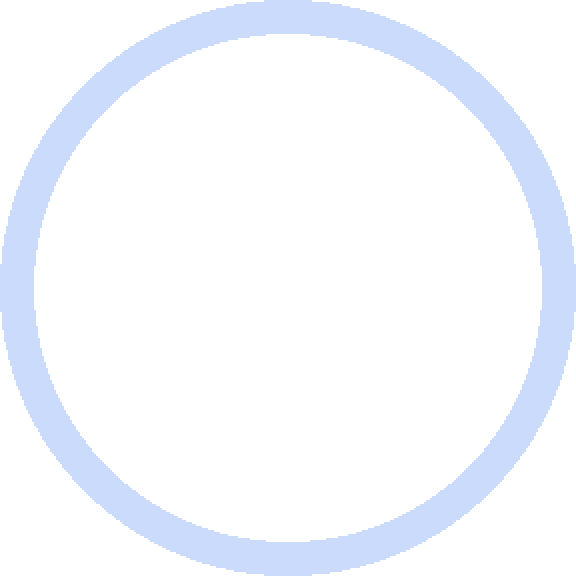
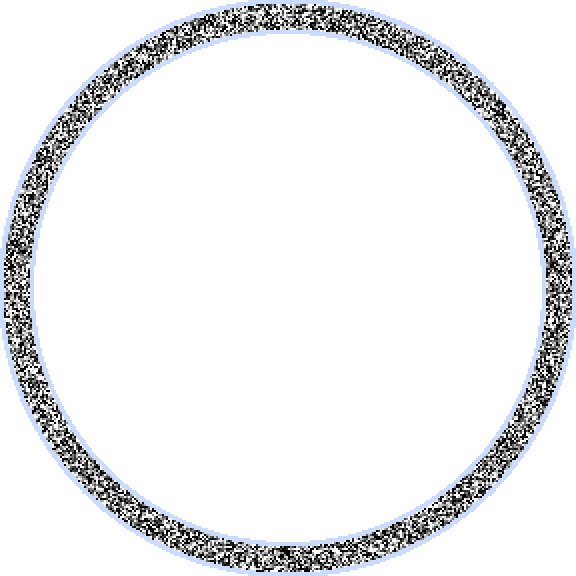
Purity Tweaks

Changed region(s): [[0.0, 0.0, 1.0, 1.0]]

diff --git a/Projectiles/Ability/Purifier.cs b/Projectiles/Ability/Purifier.cs
@@ -34,7 +34,11 @@ namespace StarlightRiver.Projectiles.Ability
 
         public override void AI()
         {
-            if (projectile.timeLeft >= 500)
+            if(projectile.timeLeft == 550)
+            {
+                Filters.Scene.Activate("PurityFilter", projectile.position).GetShader();
+            }
+            else if (projectile.timeLeft >= 500)
             {
                 projectile.ai[0] += 5;
             }
@@ -42,19 +46,14 @@ namespace StarlightRiver.Projectiles.Ability
             {
                 projectile.ai[0]--;
             }
-<<<<<<< Updated upstream
-            Filters.Scene["AuraFilter"].GetShader().UseProgress(projectile.ai[0] / 6000).UseIntensity(-0.02f * (projectile.ai[0] * 0.01f + 0.5f))
-          .UseOpacity(projectile.ai[0] * 0.01f * 0.5f)
-          .UseColor(new Vector3(0.4f, 0.4f, 0.4f) * (projectile.ai[0] * 0.01f * 0.5f)); //to update the shader //1.3
 
-=======
             Filters.Scene["PurityFilter"].GetShader().UseProgress((projectile.ai[0] / 255) * 0.191f).UseIntensity((projectile.ai[0] / 255) * 0.015f);
 
             Main.NewText(projectile.ai[0]);
->>>>>>> Stashed changes
+
             for (int x = 0; x < 30; x++)
             {
-                Dust.NewDustPerfect(projectile.Center + (Vector2.One * (projectile.ai[0] * 0.72f)).RotatedByRandom(6.28f) - Vector2.One * 16, ModContent.DustType<Dusts.Purify>());
+                Dust.NewDustPerfect(projectile.Center + (Vector2.One * ((projectile.ai[0]) * 0.82f)).RotatedByRandom(6.28f) - Vector2.One * 16, ModContent.DustType<Dusts.Purify>());
             }
             Dust.NewDust(projectile.Center - Vector2.One * 32, 32, 32, ModContent.DustType<Dusts.Purify>());
 
@@ -62,8 +61,8 @@ namespace StarlightRiver.Projectiles.Ability
             {
                 for (int y = -20; y < 20; y++)
                 {
-                    Vector2 check = (projectile.Center / 16) + new Vector2(x, y);
-                    if (Vector2.Distance((check * 16) + Vector2.One * 8, projectile.Center) <= projectile.ai[0] - 8)
+                    Vector2 check = (projectile.position / 16) + new Vector2(x, y);
+                    if (Vector2.Distance((check * 16), projectile.position) <= projectile.ai[0] - 2)
                     {
                         TransformTile((int)check.X, (int)check.Y);
                     }
@@ -82,15 +81,11 @@ namespace StarlightRiver.Projectiles.Ability
                 }
                 Projectile.NewProjectile(projectile.Center - Vector2.One * 16, Vector2.Normalize((projectile.Center - Vector2.One * 16) - Main.player[projectile.owner].Center).RotatedBy(0.3f) * 6,
                     ModContent.ProjectileType<PurifierReturn>(), 0, 0, projectile.owner);
-<<<<<<< Updated upstream
 
-                if (Filters.Scene["AuraFilter"].IsActive())
-=======
             }
             else if (projectile.timeLeft == 60)
             {
                 if (Filters.Scene["PurityFilter"].IsActive())
->>>>>>> Stashed changes
                 {
                     Filters.Scene.Deactivate("PurityFilter");
                 }
@@ -101,15 +96,15 @@ namespace StarlightRiver.Projectiles.Ability
         {
             Tile target = Main.tile[x, y];
             {
-                if (target.type == TileID.Stone || target.type == TileID.Ebonstone || target.type == TileID.Crimstone || target.type == TileID.Pearlstone) { target.type = (ushort)ModContent.TileType<StonePure>(); }
-                if (target.type == TileID.Grass || target.type == TileID.CorruptGrass || target.type == TileID.FleshGrass || target.type == TileID.HallowedGrass) { target.type = (ushort)ModContent.TileType<GrassPure>(); }
-                if (target.type == TileID.Sand || target.type == TileID.Ebonsand || target.type == TileID.Crimsand || target.type == TileID.Pearlsand) { target.type = (ushort)ModContent.TileType<SandPure>(); }
-                if (target.type == (ushort)mod.TileType("OreEbony")) { target.type = (ushort)mod.TileType("OreIvory"); }
-                if (target.type == (ushort)mod.TileType("VoidDoorOn")) { target.type = (ushort)mod.TileType("VoidDoorOff"); }
+                if (target.type == TileID.Stone || target.type == TileID.Ebonstone || target.type == TileID.Crimstone || target.type == TileID.Pearlstone) { target.type = (ushort)ModContent.TileType<StonePure>(); SpawnDust(x, y); }
+                if (target.type == TileID.Grass || target.type == TileID.CorruptGrass || target.type == TileID.FleshGrass || target.type == TileID.HallowedGrass) { target.type = (ushort)ModContent.TileType<GrassPure>(); SpawnDust(x, y); }
+                if (target.type == TileID.Sand || target.type == TileID.Ebonsand || target.type == TileID.Crimsand || target.type == TileID.Pearlsand) { target.type = (ushort)ModContent.TileType<SandPure>(); SpawnDust(x, y); }
+                if (target.type == (ushort)mod.TileType("OreEbony")) { target.type = (ushort)mod.TileType("OreIvory"); SpawnDust(x, y); }
+                if (target.type == (ushort)mod.TileType("VoidDoorOn")) { target.type = (ushort)mod.TileType("VoidDoorOff"); }//No Dust.
 
                 //walls
-                if (target.wall == WallID.Stone || target.wall == WallID.EbonstoneUnsafe || target.wall == WallID.CrimstoneUnsafe || target.wall == WallID.PearlstoneBrickUnsafe) target.wall = (ushort)ModContent.WallType<WallStonePure>();
-                if (target.wall == WallID.GrassUnsafe || target.wall == WallID.CorruptGrassUnsafe || target.wall == WallID.CrimsonGrassUnsafe || target.wall == WallID.HallowedGrassUnsafe) target.wall = (ushort)ModContent.WallType<WallGrassPure>();
+                if (target.wall == WallID.Stone || target.wall == WallID.EbonstoneUnsafe || target.wall == WallID.CrimstoneUnsafe || target.wall == WallID.PearlstoneBrickUnsafe) { target.wall = (ushort)ModContent.WallType<WallStonePure>(); SpawnDust(x, y); }
+                if (target.wall == WallID.GrassUnsafe || target.wall == WallID.CorruptGrassUnsafe || target.wall == WallID.CrimsonGrassUnsafe || target.wall == WallID.HallowedGrassUnsafe) { target.wall = (ushort)ModContent.WallType<WallGrassPure>(); SpawnDust(x, y); }
             }
         }
         private void RevertTile(int x, int y)
@@ -123,20 +118,16 @@ namespace StarlightRiver.Projectiles.Ability
                 if (target.type == (ushort)mod.TileType("VoidDoorOff")) { target.type = (ushort)mod.TileType("VoidDoorOn"); SpawnDust(x, y); }
 
                 //walls
-                if (target.wall == ModContent.WallType<WallStonePure>()) target.wall = WallID.Stone;
-                if (target.wall == ModContent.WallType<WallGrassPure>()) target.wall = WallID.GrassUnsafe;
+                if (target.wall == ModContent.WallType<WallStonePure>()) { target.wall = WallID.Stone; SpawnDust(x, y); }
+                if (target.wall == ModContent.WallType<WallGrassPure>()) { target.wall = WallID.GrassUnsafe; SpawnDust(x, y); }
             }
         }
 
         private static void SpawnDust(int x, int y)
         {
-            for (int k = 0; k <= 48; k++)
+            for (int k = 0; k <= 16; k++)
             {
-<<<<<<< Updated upstream
-                Dust.NewDustPerfect(new Vector2(x, y) * 16 + Vector2.One * 8, ModContent.DustType<Dusts.Purify2>(), Vector2.One.RotatedByRandom(6.28f) * Main.rand.NextFloat(0.9f));
-=======
-                Dust.NewDustPerfect(new Vector2(x, y) * 16 + Main.rand.NextVector2Square(0, 16), ModContent.DustType<Dusts.Purify2>(), new Vector2(Main.rand.NextFloat(-0.2f, 0.2f), Main.rand.NextFloat(-0.1f, -0.5f)));
->>>>>>> Stashed changes
+                Dust.NewDustPerfect(new Vector2(x, y) * 16 + Main.rand.NextVector2Square(-2, 18), ModContent.DustType<Dusts.Purify2>(), new Vector2(Main.rand.NextFloat(-0.2f, 0.2f), Main.rand.NextFloat(-0.1f, -0.5f)), 0, Color.White, 2f);
             }
         }
 
@@ -147,8 +138,7 @@ namespace StarlightRiver.Projectiles.Ability
                 Color.White * ((projectile.timeLeft < 500) ? 1 : (projectile.ai[0] / 250f)), 0, tex.Size() / 2, 1, 0, 0);
 
             Texture2D cirTex = ModContent.GetTexture("StarlightRiver/Projectiles/Ability/ArcaneCircle");
-            spriteBatch.Draw(cirTex, projectile.Center - Vector2.One * 16 - Main.screenPosition, cirTex.Frame(),
-                    Color.White, 0, cirTex.Size() / 2, (projectile.ai[0] / 255) * 1.015f , 0, 0);
+            spriteBatch.Draw(cirTex, projectile.Center - Vector2.One * 16 - Main.screenPosition, cirTex.Frame(), Color.White, 0, cirTex.Size() / 2, (projectile.ai[0] / 255) * 1.015f , 0, 0);
 
             /*for (float k = 0; k <= 6.28f; k += 0.1f)
             {

diff --git a/Abilities/Pure.cs b/Abilities/Pure.cs
@@ -24,7 +24,7 @@ namespace StarlightRiver.Abilities
             Active = true;
             Main.PlaySound(SoundID.Item37);
             Cooldown = 600;
-            Filters.Scene.Activate("PurityFilter", player.Center + new Vector2(0, -40)).GetShader();
+            //Filters.Scene.Activate("PurityFilter", player.Center + new Vector2(0, -40)).GetShader();
         }
 
         public override void InUse()
